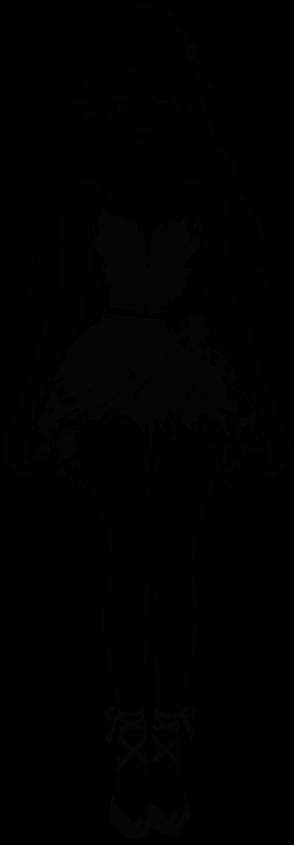
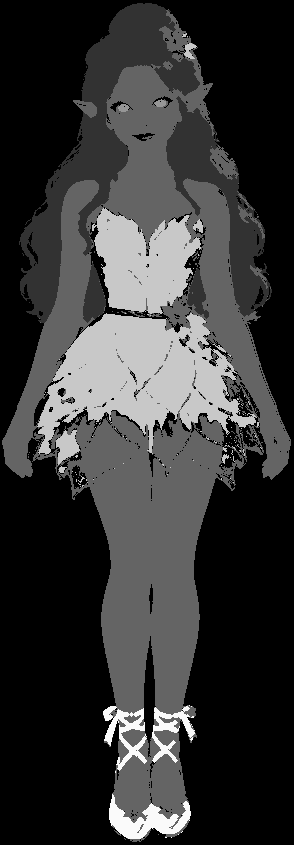
Corrige fada sumindo no Pintado: máscaras com valores espaçados e recolor à prova de erro
O Safari ajusta levemente as cores ao desenhar imagens; os valores 1–5 da
máscara viravam outros números e o recolor quebrava no meio do desenho.

Claude-Session: https://claude.ai/code/session_01287xstAxVAsazFUeALXGth

diff --git a/js/renderers/painted.js b/js/renderers/painted.js
@@ -35,7 +35,8 @@ const PaintedRenderer = (() => {
           const c = document.createElement('canvas'); c.width = mk.naturalWidth; c.height = mk.naturalHeight;
           const g = c.getContext('2d'); g.drawImage(mk, 0, 0);
           const d = g.getImageData(0, 0, c.width, c.height).data, m = new Uint8Array(c.width * c.height);
-          for (let i = 0; i < m.length; i++) m[i] = d[i * 4];
+          // classe × 50 no PNG; arredonda (o navegador pode mexer alguns pontos na cor)
+          for (let i = 0; i < m.length; i++) m[i] = Math.min(5, Math.round(d[i * 4] / 50));
           masks[n] = m;
         };
         if (!inline || inline.masks) mk.src = inline ? inline.masks[n] : `assets/fada/${n}.mask.png`;
@@ -80,7 +81,11 @@ const PaintedRenderer = (() => {
       return [lo, Math.max(lo + 1, hi)];
     }));
   }
+  // se recolorir falhar por qualquer motivo, a fada aparece com as cores originais (nunca some)
   function pic(n) {
+    try { return recolor(n); } catch (e) { masks[n] = null; return imgs[n]; }
+  }
+  function recolor(n) {
     const im = imgs[n], m = masks[n];
     if (!im || !m) return im;
     const key = lkey(look);
@@ -104,6 +109,9 @@ const PaintedRenderer = (() => {
   }
   // asas: o desenho inteiro vira o degradê das asas escolhidas
   function wingsPic() {
+    try { return wingsRecolor(); } catch (e) { return wingImg; }
+  }
+  function wingsRecolor() {
     if (!wingImg || look.wings === DEFAULT_LOOK.wings) return wingImg;
     if (wingPic && wingKey === look.wings) return wingPic;
     const W = LOOKS.wings[look.wings], lut = ramp([[0, hexRGB(W.rim)], [0.45, hexRGB(W.a)], [0.75, hexRGB(W.b)], [1, hexRGB(W.root)]]);
@@ -172,6 +180,10 @@ const PaintedRenderer = (() => {
   }
 
   function fairy(g, stage, cx, F, face, t, blink, pose) {
+    try { return paintedFairy(g, stage, cx, F, face, t, blink, pose); }
+    catch (e) { return null; }       // qualquer erro: usa a fada do Ilustrado
+  }
+  function paintedFairy(g, stage, cx, F, face, t, blink, pose) {
     if (!meta || (stage !== 'adult' && stage !== 'baby')) return null;
     const P = stage === 'baby' ? 'bebe_' : '';
     let name = P + choose(pose, face, blink);

diff --git a/sw.js b/sw.js
@@ -1,6 +1,6 @@
 /* Service worker do Fadagotchi: guarda o app para funcionar offline.
    Ao publicar uma versão nova, suba VERSION (igual a js/version.js). */
-const VERSION = '1.8.0';
+const VERSION = '1.8.1';
 const CACHE = 'fadagotchi-' + VERSION;
 const FONTS = 'fadagotchi-fonts';
 const ASSETS = [

diff --git a/js/version.js b/js/version.js
@@ -1,2 +1,2 @@
 /* Versão do app. Ao publicar, suba aqui e em sw.js (tools/build_artifact.py confere). */
-const APP_VERSION = '1.8.0';
+const APP_VERSION = '1.8.1';

diff --git a/tools/process_art.py b/tools/process_art.py
@@ -46,7 +46,9 @@ def src(fase, n):
 
 
 # ---- máscara de regiões (para recolorir cabelo, pele, olhos, vestido e sapatos no jogo) ----
-# valores no PNG: 0 nada (ouro, flores, boca...) · 1 cabelo · 2 pele · 3 olhos · 4 vestido · 5 sapatos
+# classes: 0 nada (ouro, flores, boca...) · 1 cabelo · 2 pele · 3 olhos · 4 vestido · 5 sapatos
+# no PNG cada classe vira um cinza bem espaçado (classe × 50): navegadores que ajustam a cor ao
+# desenhar (Safari) mudam o valor em poucos pontos, e o jogo arredonda de volta
 NONE, HAIR,SKIN,EYES,DRESS,SHOE=0,1,2,3,4,5
 def hsv(im):
     r,g,b=im[...,0],im[...,1],im[...,2]
@@ -171,7 +173,7 @@ def processa(fase, meta):
         xs = [x for x in range(im.width) if px[x, max(0, fy - 2)][3] > 200]
         fx = sum(xs) / len(xs) if xs else im.width / 2
         im.save(OUT / f'{P}{n}.webp', 'WEBP', quality=88, method=6)
-        Image.fromarray(classify(im)).save(OUT / f'{P}{n}.mask.png', optimize=True)
+        Image.fromarray(classify(im) * 50).save(OUT / f'{P}{n}.mask.png', optimize=True)
         meta['poses'][P + n] = {'w': im.width, 'h': im.height, 'footX': round(fx, 1), 'footY': im.height}
         print(f'{P + n:22s} {im.width}x{im.height}  pés x={fx:.0f}  {(OUT / f"{P}{n}.webp").stat().st_size // 1024} KB')
 
